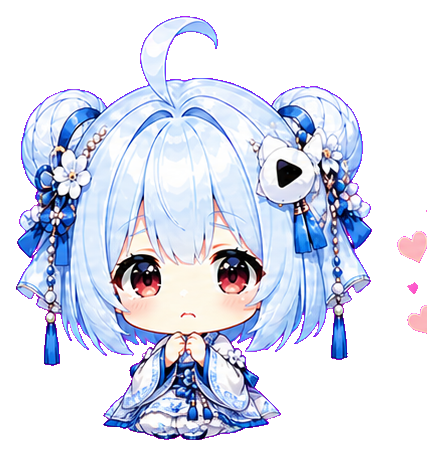
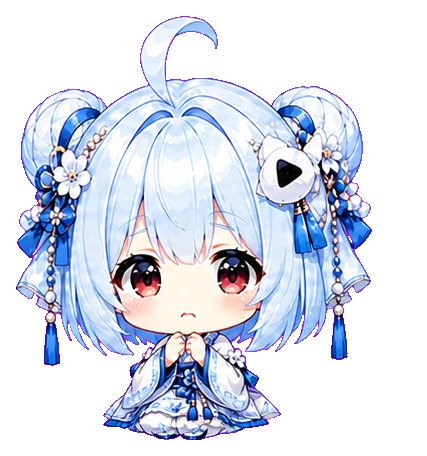
fix: sync cleaned pet sprites

Changed region(s): [[0.9133, 0.4912, 1.0, 0.5833], [0.9438, 0.6754, 1.0, 0.7368], [0.9438, 0.614, 0.9742, 0.6447]]

diff --git a/src/renderer/src/features/assistant/petAssetFiles.test.ts b/src/renderer/src/features/assistant/petAssetFiles.test.ts
@@ -1,5 +1,6 @@
 import { readFileSync } from 'node:fs'
 import { resolve } from 'node:path'
+import { inflateSync } from 'node:zlib'
 import { describe, expect, it } from 'vitest'
 
 const BIG_HEAD_ASSET_DIR = resolve(
@@ -17,6 +18,88 @@ function readPngMetadata(filename: string) {
   }
 }
 
+function readPngAlpha(filename: string) {
+  const bytes = readFileSync(resolve(BIG_HEAD_ASSET_DIR, filename))
+  const width = bytes.readUInt32BE(16)
+  const height = bytes.readUInt32BE(20)
+  const colorType = bytes[25]
+  const idatChunks: Buffer[] = []
+  let offset = 8
+
+  expect(colorType).toBe(6)
+
+  while (offset < bytes.length) {
+    const length = bytes.readUInt32BE(offset)
+    const type = bytes.subarray(offset + 4, offset + 8).toString('ascii')
+    const dataStart = offset + 8
+
+    if (type === 'IDAT') {
+      idatChunks.push(bytes.subarray(dataStart, dataStart + length))
+    }
+
+    offset = dataStart + length + 4
+  }
+
+  const inflated = inflateSync(Buffer.concat(idatChunks))
+  const rowStride = width * 4
+  const rows: Buffer[] = []
+  let sourceOffset = 0
+
+  for (let y = 0; y < height; y += 1) {
+    const filter = inflated[sourceOffset]
+    const row = Buffer.from(inflated.subarray(sourceOffset + 1, sourceOffset + 1 + rowStride))
+    const previous = rows[y - 1]
+
+    for (let x = 0; x < rowStride; x += 1) {
+      const left = x >= 4 ? row[x - 4] : 0
+      const up = previous ? previous[x] : 0
+      const upLeft = previous && x >= 4 ? previous[x - 4] : 0
+
+      if (filter === 1) {
+        row[x] = (row[x] + left) & 0xff
+      } else if (filter === 2) {
+        row[x] = (row[x] + up) & 0xff
+      } else if (filter === 3) {
+        row[x] = (row[x] + Math.floor((left + up) / 2)) & 0xff
+      } else if (filter === 4) {
+        const p = left + up - upLeft
+        const pa = Math.abs(p - left)
+        const pb = Math.abs(p - up)
+        const pc = Math.abs(p - upLeft)
+        const predictor = pa <= pb && pa <= pc ? left : pb <= pc ? up : upLeft
+        row[x] = (row[x] + predictor) & 0xff
+      } else {
+        expect(filter).toBe(0)
+      }
+    }
+
+    rows.push(row)
+    sourceOffset += rowStride + 1
+  }
+
+  return { width, height, rows }
+}
+
+function countOpaquePixelsInBand(
+  filename: string,
+  containsPixel: (x: number, y: number, width: number, height: number) => boolean
+) {
+  const png = readPngAlpha(filename)
+  let count = 0
+
+  for (let y = 0; y < png.height; y += 1) {
+    const row = png.rows[y]
+
+    for (let x = 0; x < png.width; x += 1) {
+      if (containsPixel(x, y, png.width, png.height) && row[x * 4 + 3] > 0) {
+        count += 1
+      }
+    }
+  }
+
+  return count
+}
+
 describe('big-head pet asset files', () => {
   it('uses compact transparent Q-version sprites for every state', () => {
     const stateFiles = ['idle.png', 'clicked.png', 'working.png', 'error.png', 'hint.png']
@@ -30,5 +113,11 @@ describe('big-head pet asset files', () => {
       expect(metadata.height).toBeLessThanOrEqual(470)
       expect(metadata.colorType).toBe(6)
     }
+  })
+
+  it('keeps edited interaction sprites free of edge debris', () => {
+    expect(countOpaquePixelsInBand('hint.png', (x) => x < 6)).toBe(0)
+    expect(countOpaquePixelsInBand('clicked.png', (x) => x < 6)).toBe(0)
+    expect(countOpaquePixelsInBand('error.png', (x, _y, width) => x >= width - 30)).toBe(0)
   })
 })
